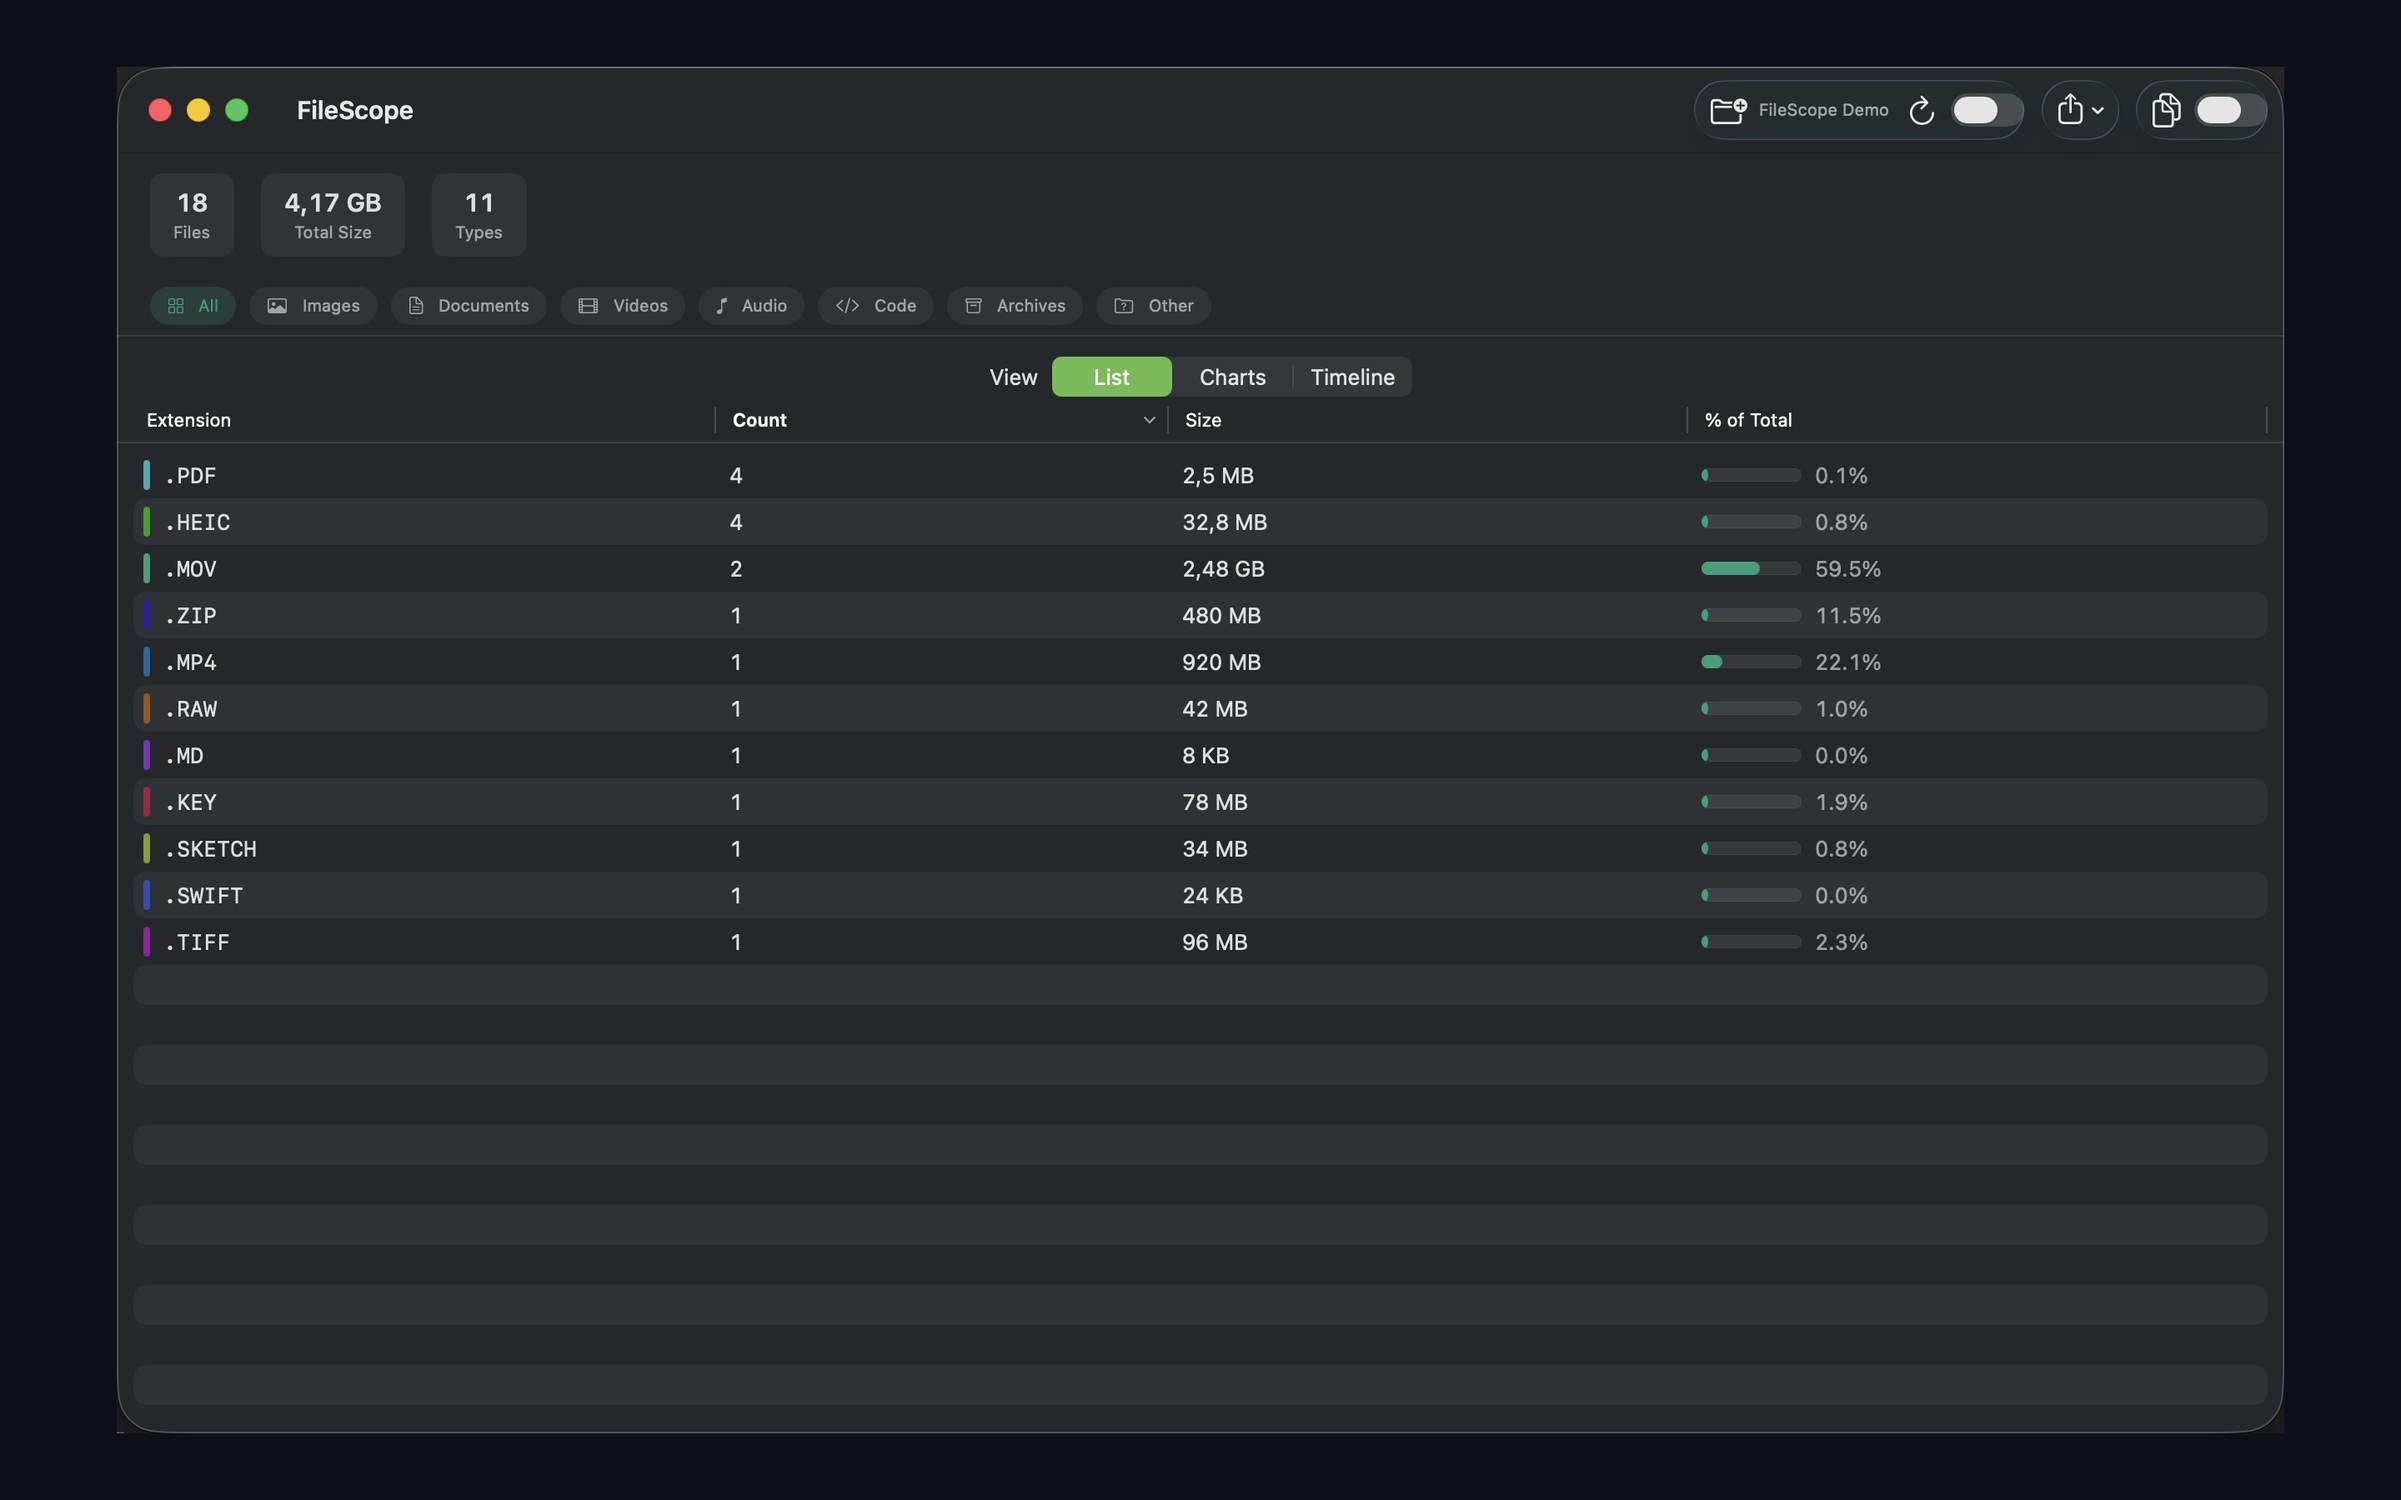
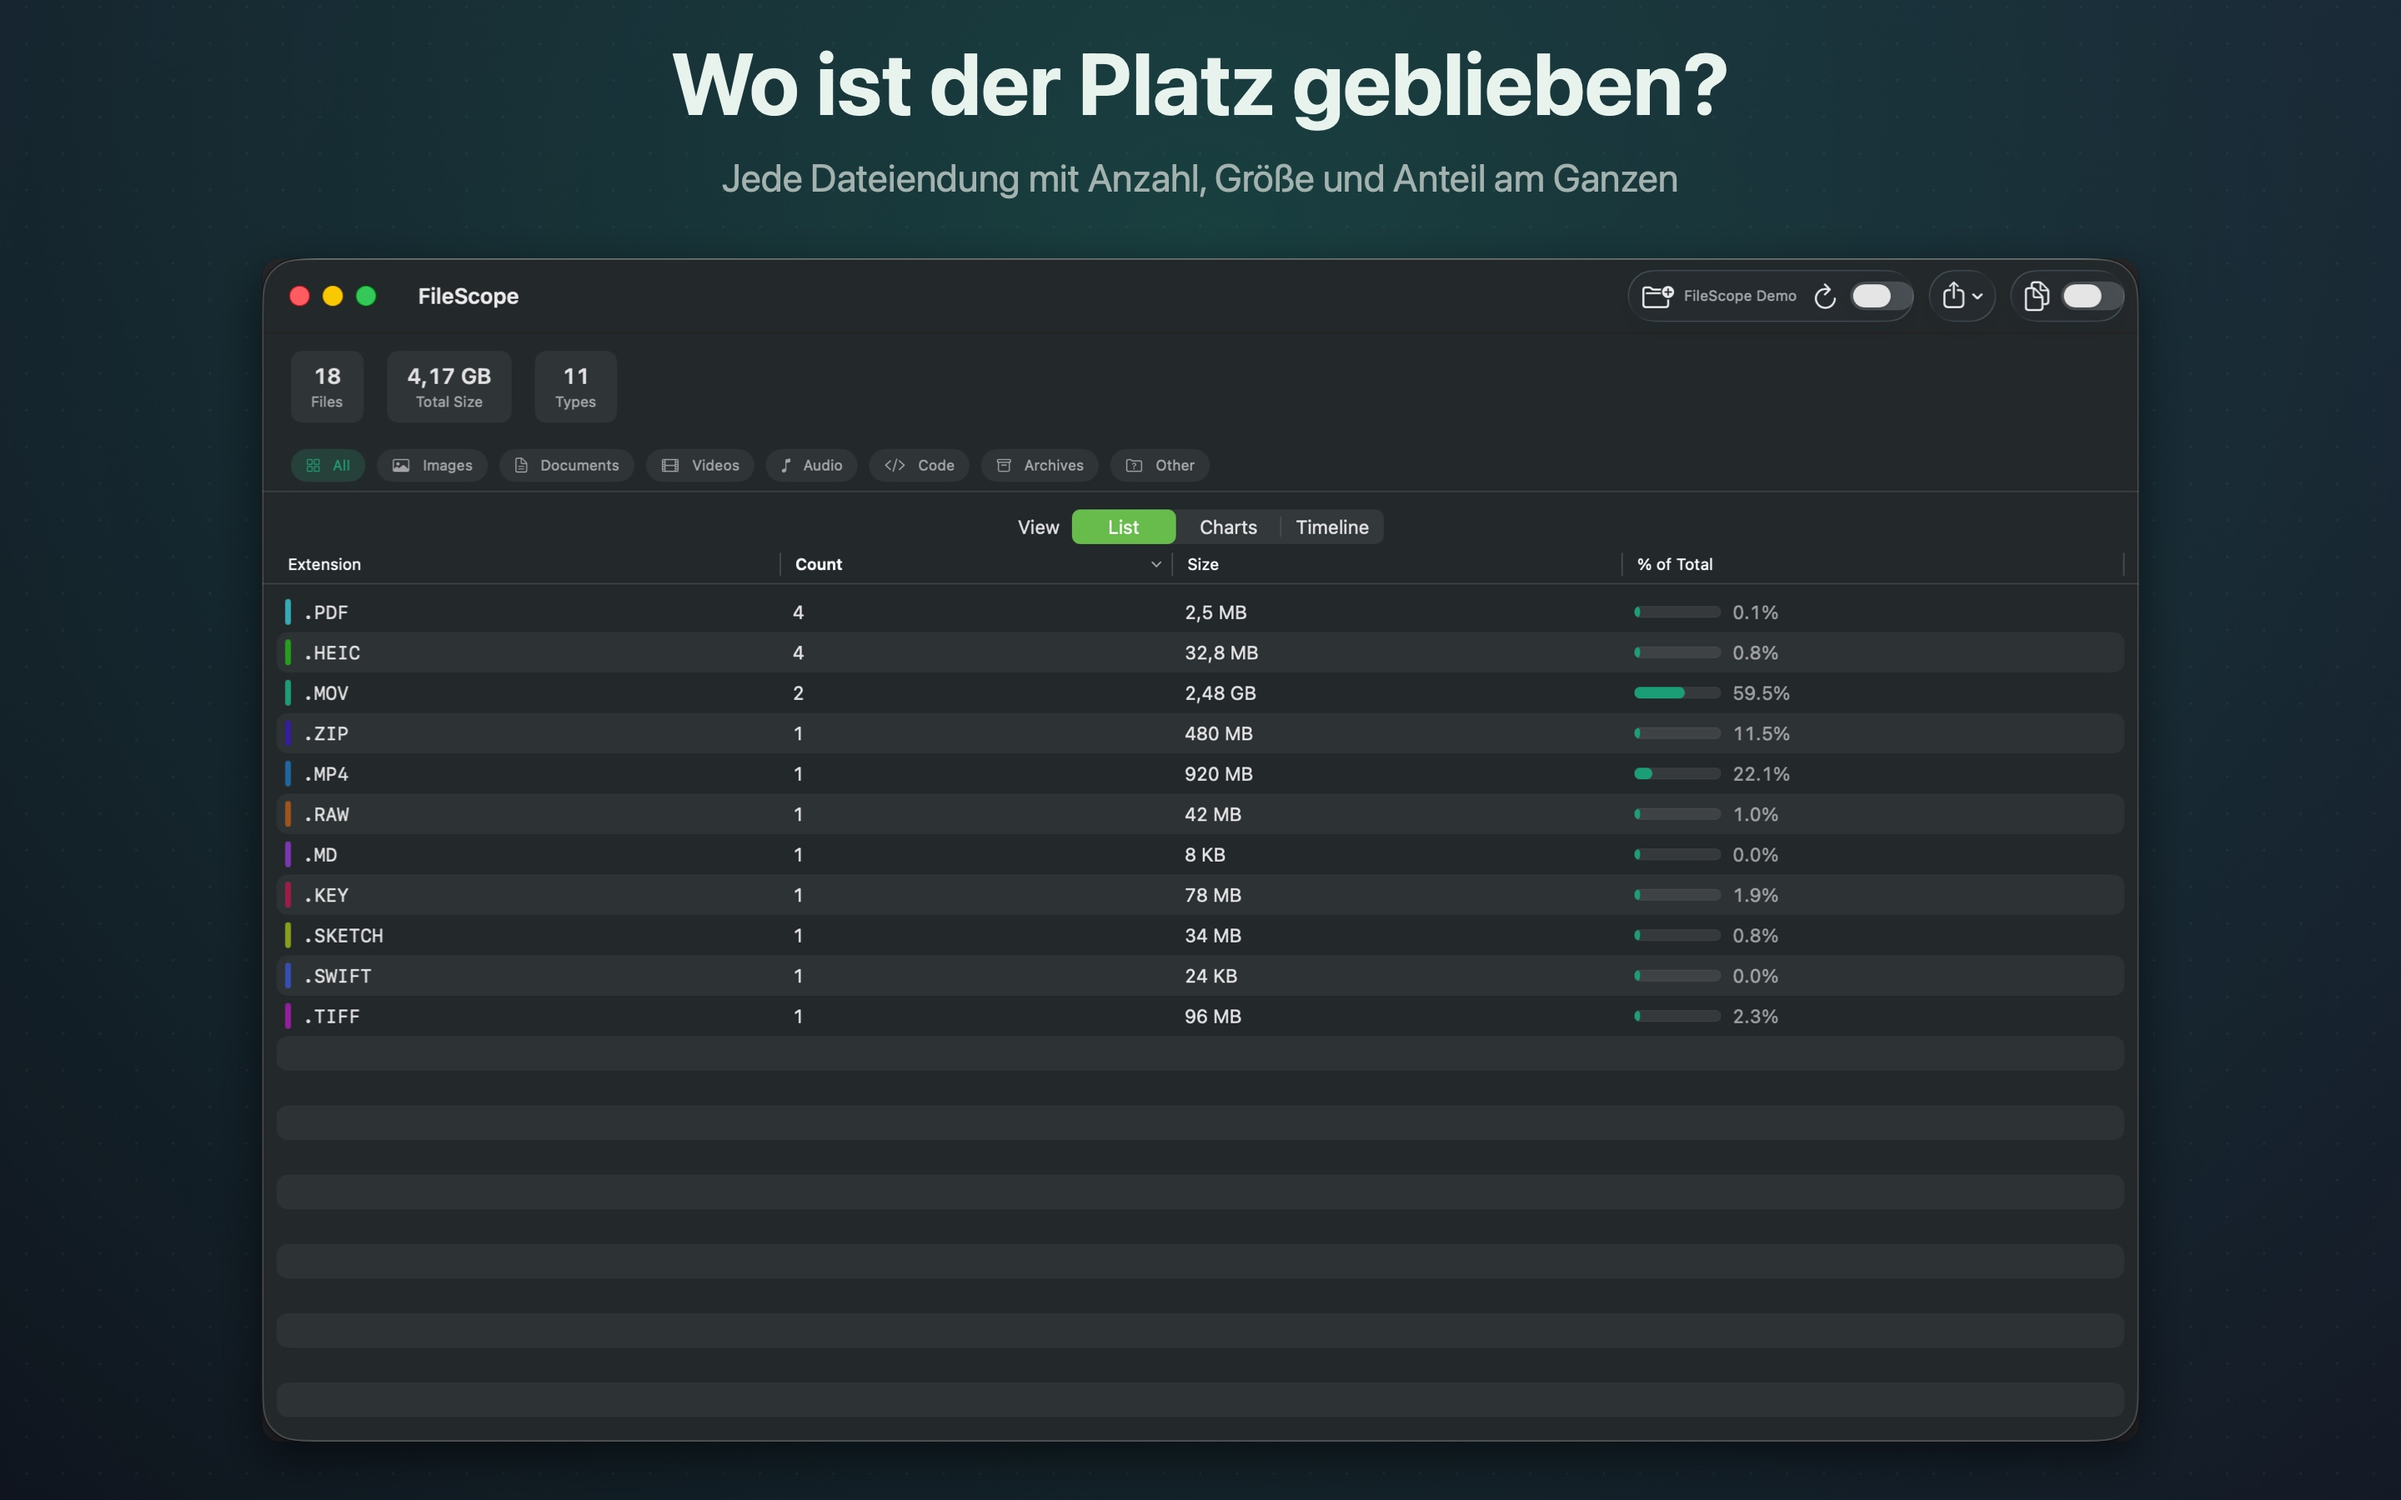
Design the store screenshots instead of shipping bare window captures
A store listing gets a few seconds. A window capture on its own explains nothing —
the headline says what you are looking at before anyone reads the numbers.

scripts/GenerateStoreScreenshots.swift composes the final images from the raw
captures: brand gradient, teal glow, dot grid, headline and subline, and the window
placed with a shadow and rounded corners. Same visual language as the OG image and
the website. The five captions live in the script and can be changed there.

Two things this exposed:

The first attempt produced 5760×3600 files. NSImage.lockFocus() doubles the
resolution on a Retina display, so a canvas declared as 2880×1800 comes out at twice
that — and the store rejects those. Drawing into an NSBitmapImageRep with explicit
pixel dimensions fixes it.

The same bug was already in GenerateOGImage.swift: index.html declares og:image as
1200×630 while the file shipped at 2400×1260. Corrected and regenerated; the file now
matches what the metadata claims.

Also fixed a layout mistake of my own: the window was tall enough to cover the
subline, so the second line of text was drawn and then hidden behind it.

diff --git a/scripts/GenerateStoreScreenshots.swift b/scripts/GenerateStoreScreenshots.swift
@@ -1,0 +1,169 @@
+#!/usr/bin/env swift
+// GenerateStoreScreenshots.swift — baut aus den rohen Fensteraufnahmen die
+// gestalteten 2880×1800-Bilder für den Mac App Store.
+//
+// Aufruf: swift scripts/GenerateStoreScreenshots.swift <ordner-mit-rohaufnahmen>
+//
+// Erwartet dort 1-liste.png … 5-videos.png, wie sie
+// scripts/capture-store-screenshots.sh erzeugt.
+//
+// Warum gestaltet und nicht nackt: Ein Store-Eintrag hat wenige Sekunden. Eine
+// Fensteraufnahme allein erklärt nichts — die Überschrift sagt, was man sieht,
+// bevor jemand die Zahlen liest.
+
+import AppKit
+
+let canvas = NSSize(width: 2880, height: 1800)
+
+// Mika+ Palette — Spiegel von Sources/MikaPlusColors.swift
+let darkBgDeep = NSColor(srgbRed: 0x0F/255.0, green: 0x0F/255.0, blue: 0x1A/255.0, alpha: 1)
+let darkBg     = NSColor(srgbRed: 0x1A/255.0, green: 0x1A/255.0, blue: 0x2E/255.0, alpha: 1)
+let teal       = NSColor(srgbRed: 0x1D/255.0, green: 0x9E/255.0, blue: 0x75/255.0, alpha: 1)
+let tealLight  = NSColor(srgbRed: 0x5D/255.0, green: 0xCA/255.0, blue: 0xA5/255.0, alpha: 1)
+let textPrim   = NSColor(srgbRed: 0xE8/255.0, green: 0xF3/255.0, blue: 0xEE/255.0, alpha: 1)
+let textMuted  = NSColor(srgbRed: 0xA3/255.0, green: 0xB2/255.0, blue: 0xAE/255.0, alpha: 1)
+
+struct Folie {
+    let datei: String
+    let titel: String
+    let unterzeile: String
+}
+
+// Die Reihenfolge ist die im Store: erst die Frage, die das Produkt beantwortet,
+// dann die Bilder, dann das Kaufargument.
+let folien = [
+    Folie(datei: "1-liste",
+          titel: "Wo ist der Platz geblieben?",
+          unterzeile: "Jede Dateiendung mit Anzahl, Größe und Anteil am Ganzen"),
+    Folie(datei: "2-diagramme",
+          titel: "Auf einen Blick",
+          unterzeile: "Ringdiagramm und Balken — die acht größten Typen, der Rest gebündelt"),
+    Folie(datei: "3-zeitachse",
+          titel: "Was liegt hier nur herum?",
+          unterzeile: "Verteilung nach Alter — getrennt nach Anzahl und nach Volumen"),
+    Folie(datei: "4-duplikate",
+          titel: "Doppelt gespeichert",
+          unterzeile: "SHA-256 findet, was wirklich gleich ist. Gelöscht wird nichts."),
+    Folie(datei: "5-videos",
+          titel: "Nur das, was zählt",
+          unterzeile: "Sieben Kategorien — Tabelle, Diagramme und Export folgen der Auswahl"),
+]
+
+let args = CommandLine.arguments
+guard args.count > 1 else {
+    print("Aufruf: swift scripts/GenerateStoreScreenshots.swift <ordner-mit-rohaufnahmen>")
+    exit(1)
+}
+let quelle = args[1]
+let projekt = FileManager.default.currentDirectoryPath
+let ziel = "\(projekt)/store/screenshots"
+try? FileManager.default.createDirectory(atPath: ziel, withIntermediateDirectories: true)
+
+func schrift(_ groesse: CGFloat, _ gewicht: NSFont.Weight) -> NSFont {
+    NSFont.systemFont(ofSize: groesse, weight: gewicht)
+}
+
+for folie in folien {
+    let pfad = "\(quelle)/\(folie.datei).png"
+    guard let aufnahme = NSImage(contentsOfFile: pfad) else {
+        print("  ! fehlt: \(pfad)")
+        continue
+    }
+
+    // In eine Bitmap mit festen Pixelmaßen zeichnen, nicht über NSImage.lockFocus():
+    // Auf einem Retina-Bildschirm verdoppelt lockFocus die Auflösung, und aus 2880×1800
+    // werden 5760×3600. Der Store lehnt solche Bilder ab.
+    guard let rep = NSBitmapImageRep(
+        bitmapDataPlanes: nil,
+        pixelsWide: Int(canvas.width), pixelsHigh: Int(canvas.height),
+        bitsPerSample: 8, samplesPerPixel: 4, hasAlpha: true, isPlanar: false,
+        colorSpaceName: .deviceRGB, bytesPerRow: 0, bitsPerPixel: 0)
+    else { continue }
+    rep.size = canvas
+
+    NSGraphicsContext.saveGraphicsState()
+    NSGraphicsContext.current = NSGraphicsContext(bitmapImageRep: rep)
+
+    // Hintergrund: derselbe Verlauf wie auf der Website und im OG-Bild
+    NSGradient(starting: darkBgDeep, ending: darkBg)!
+        .draw(in: NSRect(origin: .zero, size: canvas), angle: 65)
+
+    // Teal-Schein hinter der Überschrift. Der Verlauf reicht weit über den Rand
+    // hinaus, damit seine eigene Kante nie als Naht sichtbar wird.
+    let schein = NSGradient(colors: [teal.withAlphaComponent(0.30), teal.withAlphaComponent(0)])!
+    let scheinGroesse: CGFloat = 3400
+    schein.draw(in: NSRect(x: canvas.width/2 - scheinGroesse/2,
+                           y: canvas.height - 300 - scheinGroesse/2,
+                           width: scheinGroesse, height: scheinGroesse),
+                relativeCenterPosition: .zero)
+
+    // Punktraster, wie im App-Symbol
+    tealLight.withAlphaComponent(0.07).setFill()
+    for x in stride(from: 30.0, to: canvas.width, by: 44) {
+        for y in stride(from: 30.0, to: canvas.height, by: 44) {
+            NSBezierPath(ovalIn: NSRect(x: x, y: y, width: 3.5, height: 3.5)).fill()
+        }
+    }
+
+    // Überschrift
+    let titelAttr: [NSAttributedString.Key: Any] = [
+        .font: schrift(104, .bold),
+        .foregroundColor: textPrim,
+    ]
+    let titelGroesse = folie.titel.size(withAttributes: titelAttr)
+    folie.titel.draw(at: NSPoint(x: (canvas.width - titelGroesse.width)/2, y: canvas.height - 160),
+                     withAttributes: titelAttr)
+
+    // Unterzeile
+    let unterAttr: [NSAttributedString.Key: Any] = [
+        .font: schrift(46, .regular),
+        .foregroundColor: textMuted,
+    ]
+    let unterGroesse = folie.unterzeile.size(withAttributes: unterAttr)
+    folie.unterzeile.draw(at: NSPoint(x: (canvas.width - unterGroesse.width)/2, y: canvas.height - 240),
+                          withAttributes: unterAttr)
+
+    // Die Fensteraufnahme: proportional einpassen, zentriert, unten bündig
+    // Die Breite folgt aus der Höhe, die nach Überschrift und Unterzeile übrig
+    // bleibt: rund 300 px oben, 70 px Luft unten. Vorher war das Fenster so hoch,
+    // dass es die Unterzeile verdeckte.
+    let maxHoehe: CGFloat = 1420
+    let maxBreite: CGFloat = min(2400, aufnahme.size.width * (maxHoehe / aufnahme.size.height))
+    let skala = maxBreite / aufnahme.size.width
+    let bildGroesse = NSSize(width: maxBreite, height: aufnahme.size.height * skala)
+    let bildRahmen = NSRect(x: (canvas.width - bildGroesse.width)/2,
+                            y: 70,
+                            width: bildGroesse.width, height: bildGroesse.height)
+
+    // Schatten, damit das Fenster auf dem Verlauf steht statt darin zu schwimmen
+    NSGraphicsContext.saveGraphicsState()
+    let schatten = NSShadow()
+    schatten.shadowColor = NSColor.black.withAlphaComponent(0.55)
+    schatten.shadowBlurRadius = 60
+    schatten.shadowOffset = NSSize(width: 0, height: -18)
+    schatten.set()
+    let ecken = NSBezierPath(roundedRect: bildRahmen, xRadius: 22, yRadius: 22)
+    darkBgDeep.setFill()
+    ecken.fill()
+    NSGraphicsContext.restoreGraphicsState()
+
+    // Auf die abgerundeten Ecken beschneiden
+    NSGraphicsContext.saveGraphicsState()
+    ecken.addClip()
+    aufnahme.draw(in: bildRahmen, from: .zero, operation: .sourceOver, fraction: 1)
+    NSGraphicsContext.restoreGraphicsState()
+
+    NSGraphicsContext.restoreGraphicsState()
+
+    // Als JPEG sichern: der Store nimmt keinen Alpha-Kanal, und JPEG hat keinen.
+    guard let daten = rep.representation(using: .jpeg, properties: [.compressionFactor: 0.92])
+    else {
+        print("  ! konnte \(folie.datei) nicht sichern")
+        continue
+    }
+    let ausgabe = "\(ziel)/\(folie.datei).jpg"
+    try? daten.write(to: URL(fileURLWithPath: ausgabe))
+    print("  ✓ \(folie.datei).jpg — \(folie.titel)")
+}
+
+print("\nFertig: \(ziel)")

diff --git a/scripts/GenerateOGImage.swift b/scripts/GenerateOGImage.swift
@@ -21,8 +21,19 @@ let tealLight  = NSColor(srgbRed: 0x5D/255.0, green: 0xCA/255.0, blue: 0xA5/255.
 let textPrim   = NSColor(srgbRed: 0xE8/255.0, green: 0xF3/255.0, blue: 0xEE/255.0, alpha: 1.0)
 let textMuted  = NSColor(srgbRed: 0xA3/255.0, green: 0xB2/255.0, blue: 0xAE/255.0, alpha: 1.0)
 
-let image = NSImage(size: NSSize(width: width, height: height))
-image.lockFocus()
+// Draw into a bitmap with explicit pixel dimensions rather than NSImage.lockFocus():
+// on a Retina display the latter doubles the resolution, and the 1200x630 declared in
+// index.html would ship as a 2400x1260 file.
+guard let bitmap = NSBitmapImageRep(
+    bitmapDataPlanes: nil, pixelsWide: width, pixelsHigh: height,
+    bitsPerSample: 8, samplesPerPixel: 4, hasAlpha: true, isPlanar: false,
+    colorSpaceName: .deviceRGB, bytesPerRow: 0, bitsPerPixel: 0) else {
+    print("Failed to create bitmap")
+    exit(1)
+}
+bitmap.size = NSSize(width: width, height: height)
+NSGraphicsContext.saveGraphicsState()
+NSGraphicsContext.current = NSGraphicsContext(bitmapImageRep: bitmap)
 
 // Background gradient
 NSGradient(starting: darkBgDeep, ending: darkBg)!
@@ -106,11 +117,9 @@ NSBezierPath(rect: NSRect(x: textX, y: 148, width: 54, height: 3)).fill()
 draw("macOS 14+ · Free · Open source", x: textX, y: 104,
      size: 20, weight: .medium, color: textMuted)
 
-image.unlockFocus()
+NSGraphicsContext.restoreGraphicsState()
 
-guard let tiff = image.tiffRepresentation,
-      let rep = NSBitmapImageRep(data: tiff),
-      let jpeg = rep.representation(using: .jpeg, properties: [.compressionFactor: 0.92]) else {
+guard let jpeg = bitmap.representation(using: .jpeg, properties: [.compressionFactor: 0.92]) else {
     print("Failed to render OG image")
     exit(1)
 }

diff --git a/store/metadata.md b/store/metadata.md
@@ -132,15 +132,18 @@ Quelltext — `grep -rn "URLSession" Sources/` liefert nichts.
 
 ## Screenshots
 
-In `store/screenshots/`, alle 2880×1800, JPEG ohne Alpha-Kanal:
+In `store/screenshots/`, alle 2880×1800, JPEG ohne Alpha-Kanal. Sie sind gestaltet,
+nicht nur abfotografiert: Überschrift, Unterzeile, Markenverlauf und Punktraster wie im
+OG-Bild der Website. Erzeugt mit `swift scripts/GenerateStoreScreenshots.swift <ordner>`
+— die Texte stehen im Skript und lassen sich dort ändern.
 
 | Datei | Zeigt |
 |---|---|
-| `1-liste.jpg` | Aufschlüsselung nach Dateityp mit Anteilen |
-| `2-diagramme.jpg` | Ring- und Balkendiagramm |
-| `3-zeitachse.jpg` | Altersverteilung nach Anzahl und Volumen |
-| `4-duplikate.jpg` | Duplikatsuche mit rückgewinnbarem Platz |
-| `5-videos.jpg` | Kategoriefilter am Beispiel Videos |
+| `1-liste.jpg` | „Wo ist der Platz geblieben?" — Aufschlüsselung nach Dateityp |
+| `2-diagramme.jpg` | „Auf einen Blick" — Ring- und Balkendiagramm |
+| `3-zeitachse.jpg` | „Was liegt hier nur herum?" — Altersverteilung |
+| `4-duplikate.jpg` | „Doppelt gespeichert" — Duplikatsuche |
+| `5-videos.jpg` | „Nur das, was zählt" — Kategoriefilter |
 
 Neu erzeugen lassen sie sich mit `bash scripts/make-demo-folder.sh` — der Ordner, der
 darauf zu sehen ist, entsteht dabei identisch. Wichtig, damit die Aufnahmen bei der
